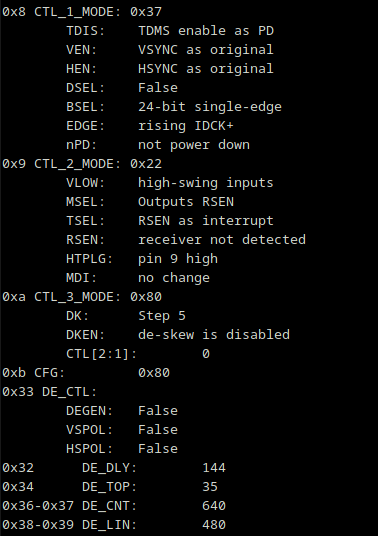
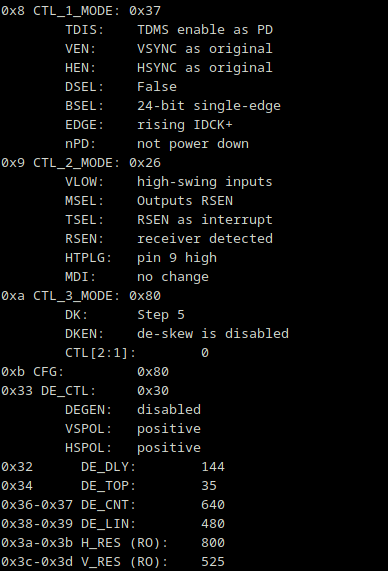
update docs for TFP410 I2C demo reflecting test results

diff --git a/demos/micropython/i2c_tfp410_test.py b/demos/micropython/i2c_tfp410_test.py
@@ -71,7 +71,12 @@ TFP410_V_RES_HI=	0x3D
 
 
 def readregs():
+  #NOTE: documentation states that page mode is not supported but actually it is
+  #if not working, write bytes one by one
   return i2c.readfrom_mem(I2C_ADDR, 0,  0x3D+1) #read 62 bytes
+  
+def writeregs(regaddr, r):
+  i2c.writeto_mem(I2C_ADDR, regaddr, bytes(r)) #see note above about page address
 
 def dumpregs(r):
   #for i in range(len(r)):
@@ -89,7 +94,8 @@ def dumpregs(r):
 
   print(hex(TFP410_CTL_2), "CTL_2_MODE:", hex(r[TFP410_CTL_2]))
   print("\tVLOW:\t",  "low-swing inputs" if r[TFP410_CTL_2] & TFP410_CTL_2_VLOW else "high-swing inputs")
-  print("\tMSEL:\t", "Outputs " + ({0:"always high",1:"MDI",2:"RSEN",3:"HTPLG"}[(r[TFP410_CTL_2] & TFP410_CTL_2_MSEL_MASK) >> 4]))
+  mseldict = {0:"always high",1:"MDI",2:"RSEN",3:"HTPLG",4:"4?",5:"5?",6:"g?",7:"7?"}
+  print("\tMSEL:\t", "Outputs " + (mseldict[(r[TFP410_CTL_2] & TFP410_CTL_2_MSEL_MASK) >> 4]))
   print("\tTSEL:\t", "HTPLG as interrupt" if r[TFP410_CTL_2] & TFP410_CTL_2_TSEL else "RSEN as interrupt")
   print("\tRSEN:\t", "receiver detected" if r[TFP410_CTL_2] & TFP410_CTL_2_RSEN else "receiver not detected")
   print("\tHTPLG:\t", "pin 9 high" if r[TFP410_CTL_2] & TFP410_CTL_2_HTPLG else "pin 9 low")
@@ -102,18 +108,19 @@ def dumpregs(r):
   
   print(hex(TFP410_USERCFG), "CFG:\t", hex(r[TFP410_USERCFG]))
 
-  print(hex(TFP410_DE_CTL), "DE_CTL:")
-  print("\tDEGEN:\t", (r[TFP410_DE_CTL] & TFP410_DE_CTL_DEGEN) != 0)
-  print("\tVSPOL:\t", (r[TFP410_DE_CTL] & TFP410_DE_CTL_VSPOL) != 0)
-  print("\tHSPOL:\t", (r[TFP410_DE_CTL] & TFP410_DE_CTL_HSPOL) != 0)
+  print(hex(TFP410_DE_CTL), "DE_CTL:\t", hex(r[TFP410_DE_CTL]))
+  print("\tDEGEN:\t", "enabled" if r[TFP410_DE_CTL] & TFP410_DE_CTL_DEGEN else "disabled")
+  print("\tVSPOL:\t", "positive" if r[TFP410_DE_CTL] & TFP410_DE_CTL_VSPOL else "negative")
+  print("\tHSPOL:\t", "positive" if r[TFP410_DE_CTL] & TFP410_DE_CTL_HSPOL else "negative")
 
   print(hex(TFP410_DE_DLY), "     DE_DLY:\t", r[TFP410_DE_DLY] | ((r[TFP410_DE_CTL] & TFP410_DE_CTL_DEDLY8)<<8))
   print(hex(TFP410_DE_TOP), "     DE_TOP:\t", r[TFP410_DE_TOP])
   print(hex(TFP410_DE_CNT_LO)+"-"+hex(TFP410_DE_CNT_HI), "DE_CNT:\t", int.from_bytes(r[TFP410_DE_CNT_LO:TFP410_DE_CNT_LO+2], 'little'))
   print(hex(TFP410_DE_LIN_LO)+"-"+hex(TFP410_DE_LIN_HI), "DE_LIN:\t", int.from_bytes(r[TFP410_DE_LIN_LO:TFP410_DE_LIN_LO+2], 'little'))
   
-  print(hex(TFP410_H_RES_LO)+"-"+hex(TFP410_H_RES_HI), "H_RES:\t", int.from_bytes(r[TFP410_H_RES_LO:TFP410_H_RES_LO+2], 'little'))
-  print(hex(TFP410_V_RES_LO)+"-"+hex(TFP410_V_RES_HI), "V_RES:\t", int.from_bytes(r[TFP410_V_RES_LO:TFP410_V_RES_LO+2], 'little'))
+  #available at all times, whether or not the DE generator is enabled
+  print(hex(TFP410_H_RES_LO)+"-"+hex(TFP410_H_RES_HI), "H_RES (RO):\t", int.from_bytes(r[TFP410_H_RES_LO:TFP410_H_RES_LO+2], 'little'))
+  print(hex(TFP410_V_RES_LO)+"-"+hex(TFP410_V_RES_HI), "V_RES (RO):\t", int.from_bytes(r[TFP410_V_RES_LO:TFP410_V_RES_LO+2], 'little'))
 
 regs = readregs()
 assert(len(regs)==62 and regs[0:4] == b'\x4c\x01\x10\x04') #test correct VEN_ID and DEV_ID
@@ -122,6 +129,7 @@ print("original register values")
 dumpregs(regs)
 
 """
+Values at reset, actually read in hardware:
 0x8 CTL_1_MODE: 0xbe
 	TDIS:	 TDMS enable as PD
 	VEN:	 VSYNC as original
@@ -142,10 +150,10 @@ dumpregs(regs)
 	DKEN:	 de-skew is disabled
 	CTL[2:1]:	 0
 0xb CFG:	 0x80
-0x33 DE_CTL:
-	DEGEN:	 False
-	VSPOL:	 False
-	HSPOL:	 False
+0x33 DE_CTL:	 0x0
+	DEGEN:	 disabled
+	VSPOL:	 negative
+	HSPOL:	 negative
 0x32      DE_DLY:	 0
 0x34      DE_TOP:	 0
 0x36-0x37 DE_CNT:	 0
@@ -191,8 +199,9 @@ VSyncEnd = Ver Sync Start (490) + Ver Sync Time (2) = 492
 VTotal = Ver Total Time (525)
 """
 
-HSync_pol = 0 #0: negative 1: positive
-VSync_pol = 0 #0: negative 1: positive
+#FIXME VESA expects negative VSYNC and HSYNC for 640x480
+HSync_pol = 1 #0: negative 1: positive
+VSync_pol = 1 #0: negative 1: positive
 
 #HActive HSyncStart HSyncEnd HTotal VActive VSyncStart VSyncEnd VTotal HSync_pol VSync_pol
 modelines = {"640x480@60Hz": [25.175e6, 640, 656, 752, 800, 480, 490, 492, 525, HSync_pol, VSync_pol]}
@@ -210,19 +219,24 @@ DE_CTL = (
 	(DE_DLY >> 8) & TFP410_DE_CTL_DEDLY8  # DE_DLY[8] (top bit of DE_DLY)
 )
 
-i2c.writeto_mem(I2C_ADDR, TFP410_CTL_1, bytes([CTL_1_MODE, CTL_2_MODE, CTL_3_MODE]))
+#start writing regs in power down
+writeregs(TFP410_CTL_1, [CTL_1_MODE & ~(TFP410_CTL_1_PD), CTL_2_MODE, CTL_3_MODE])
 
 DUMMY_0x35 = 0 #undefined register
-i2c.writeto_mem(I2C_ADDR, TFP410_DE_DLY, bytes([
+writeregs(TFP410_DE_DLY, [
   DE_DLY & 0xFF,
   DE_CTL, DE_TOP & 0xFF,
   DUMMY_0x35,
   DE_CNT & 0xFF,
   (DE_CNT >> 8) & 0x07,
   DE_LIN & 0xFF,
-  (DE_LIN >> 8) & 0x07])
+  (DE_LIN >> 8) & 0x07]
 )
 
+writeregs(TFP410_CTL_1, [CTL_1_MODE]) #now powers up
+
+import utime as time
+time.sleep_ms(100) #wait V_RES to settle
 print("new register values")
 regs = readregs()
 dumpregs(regs)
